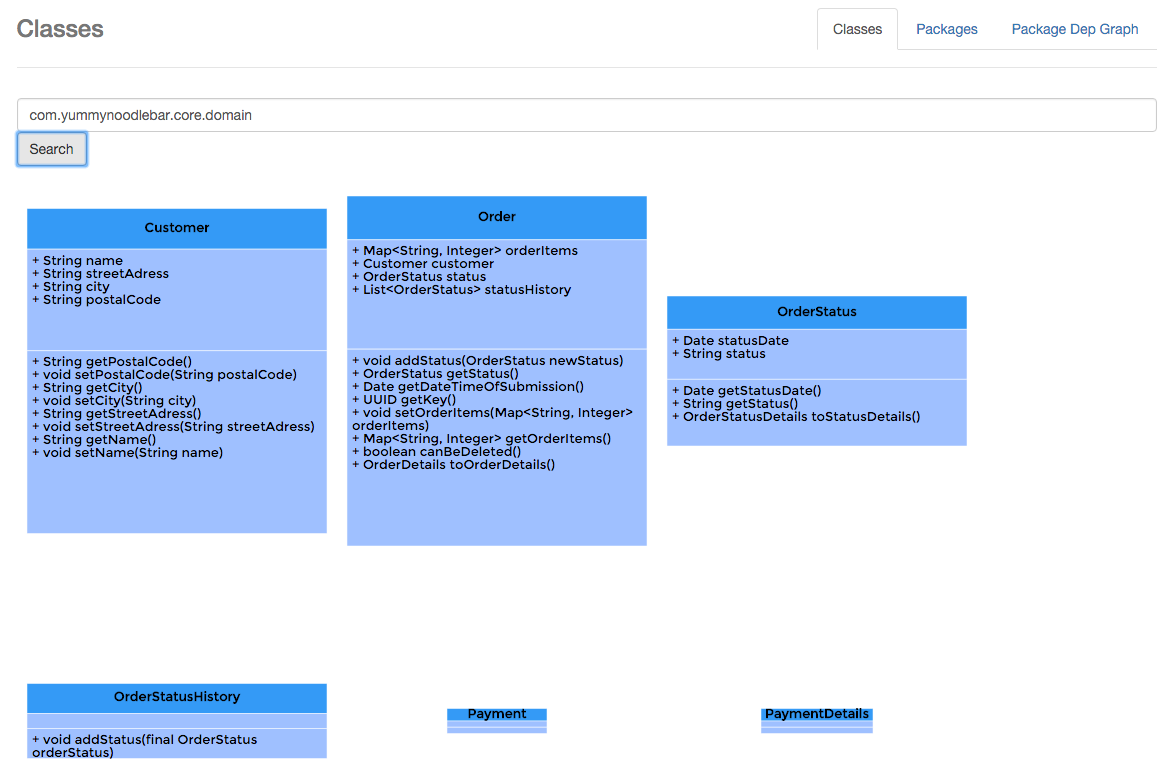
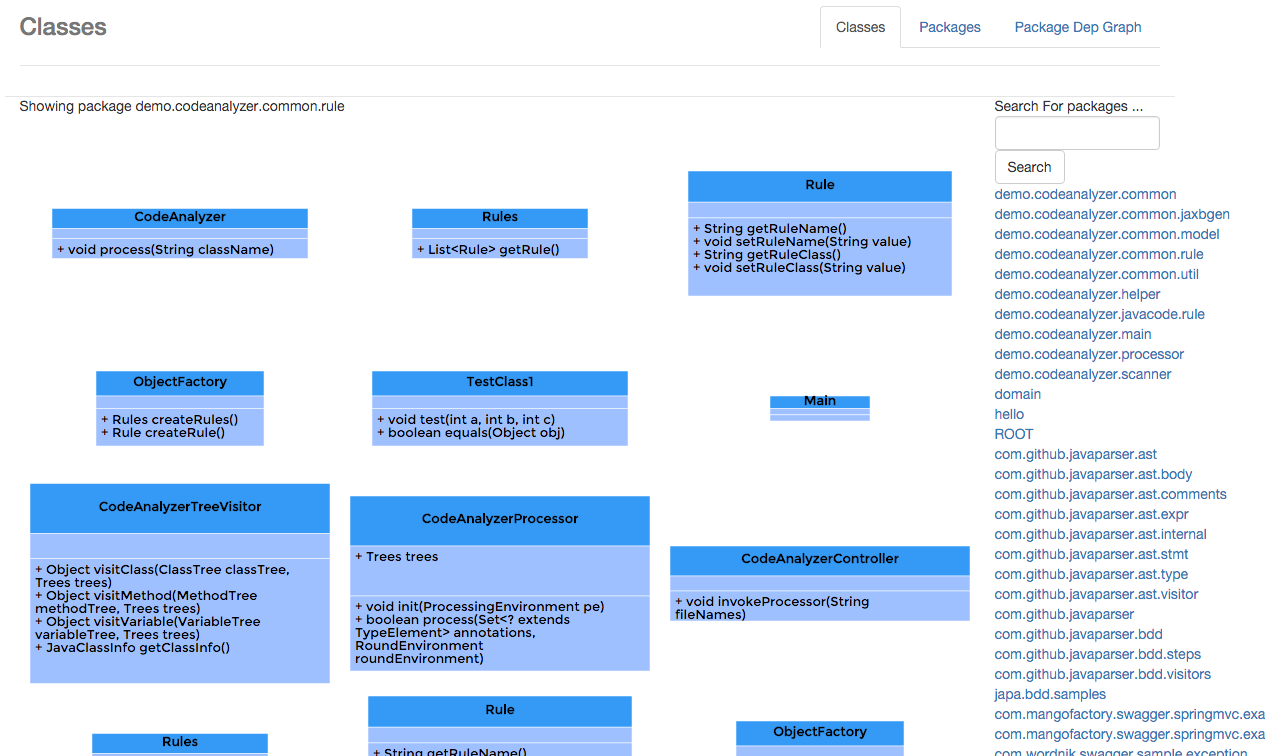
added search by package functionality to class diagram UI

diff --git a/app/scripts/classdiagrams.js b/app/scripts/classdiagrams.js
@@ -31,7 +31,8 @@ function idIndex(a,id) {
 
 function searchDatabase(searchCriteria) {
 
-    console.log("searching for: " + searchCriteria);
+    $("#showingpackage").html("Showing package " + searchCriteria);
+    //console.log("searching for: " + searchCriteria);
 
     // The query
     var query= {"statements":[{"statement":"MATCH (javaPackage:JavaPackage { name:'" + searchCriteria + "' })-[CONTAINS_CLASS]->(javaClass:JavaClass)  RETURN javaClass;",
@@ -50,18 +51,18 @@ function searchDatabase(searchCriteria) {
               
               var largestHeight = 0;
 
-              console.log(data);
+              //console.log(data);
 
               //$.each(data.classes, function(index, element) {
               $.each(data.results[0].data, function(index, element) {
 
-                    console.log(element.name);
+                    //console.log(element.name);
                     
                     element.row[0].publicMethods = transformToMultiline(element.row[0].publicMethods, 250);
-                    console.log("publicMethods=" + element.row[0].publicMethods); 
+                    //console.log("publicMethods=" + element.row[0].publicMethods); 
 
                     element.row[0].privateInstanceVariables = transformToMultiline(element.row[0].privateInstanceVariables, 250);
-                    console.log("privateInstanceVariables=" + element.row[0].privateInstanceVariables);
+                    //console.log("privateInstanceVariables=" + element.row[0].privateInstanceVariables);
 
                     var calculatedWidth = calcMaxWidthForClass(element.row[0]);
                     var calculatedHeight = calcMaxHeightForClass(element.row[0]);
@@ -155,7 +156,7 @@ function searchDatabase(searchCriteria) {
 // where the length of any one array element does not exceed the width limit
 function transformToMultiline(stringArray, widthLimit) {
 
-    console.log(stringArray);
+    //console.log(stringArray);
     if(typeof stringArray == 'undefined') {
         console.log("stringArray is undefined");
         return [];
@@ -163,7 +164,7 @@ function transformToMultiline(stringArray, widthLimit) {
 
     stringArray = stringArray.map(function(orig) {
         var transformed = "+ " + joint.util.breakText(orig, { width: widthLimit } );
-        console.log(transformed);
+        //console.log(transformed);
         return transformed;
     });
 
@@ -292,15 +293,62 @@ joint.layout.GridLayout = {
 
 paper.on('cell:pointerdblclick ',
     function(cellView, evt, x, y) {
-        console.log(cellView.model.attributes);
+        //console.log(cellView.model.attributes);
         $("#classdetails").html('Class=' + cellView.model.attributes.fullyQualifiedName);
     }
 );
 
+
+
+function searchPackages(searchCriteria) {
+
+    // The query
+    var query= {"statements":[{"statement":"MATCH (n:JavaPackage) WHERE n.name CONTAINS '" + searchCriteria + "' RETURN n",
+    "resultDataContents":["row"]}]};
+
+    // jQuery ajax call - http://stackoverflow.com/questions/29440613/return-the-graph-structure-of-a-neo4j-cypher-query-using-jquery
+    var request = $.ajax({
+        type: "POST",
+        url: "http://localhost:7474/db/data/transaction/commit",
+        accepts: { json: "application/json" },
+        dataType: "json",
+        contentType:"application/json",
+        data: JSON.stringify(query),
+        //now pass a callback to success to do something with the data
+        success: function (data) {
+                //console.log("package search results:");
+                //console.log(data);
+
+                $.each(data.results[0].data, function(index, element) {
+
+                    //console.log(element.row[0]);
+                    $("#searchresults").append("<a class='packagesearchlink'>" + element.row[0].name + "</a><br/>");
+                });
+
+                $(".packagesearchlink").click(function(event) {
+                    event.preventDefault();
+                    var text = $(event.target).text();
+                    searchDatabase(text);
+                });
+        }
+    });
+
+    request.done(function(data) {
+
+    });
+
+    request.fail(function(jqXHR, textStatus) {
+      alert( "Request failed: " + textStatus );
+    });
+}
+
 $("#packagesearchbutton").click(function() {
-    searchDatabase($("#packagesearchinput").val());
+    
+    searchPackages($("#packagesearchinput").val());
 });
 
+// initially load the page with ..
+searchPackages("");
 
 
 

diff --git a/app/index.html b/app/index.html
@@ -45,18 +45,24 @@
 
       </div>
 
-      <!--
-      <div id="jumbo" class="jumbotron">
-      -->
+      <div class="row">
+        <div class="col-md-10">
+          <div id="showingpackage"></div>
+          <div id="paper" class="paper "></div>
+          <div id="classdetails"></div>
+        </div>
+        <div class="col-md-2">
+          <div id="search">
+              Search For packages ...
+              <form class="form-horizontal">
+                <input type="text" class="form-control" id="packagesearchinput" value=""/><button type="button" id="packagesearchbutton" class="btn btn-default">Search</button>
+              </form>
+            </div>
+            <div id="searchresults">
 
-      <div id="search">
-        <form class="form-horizontal">
-          <input type="text" class="form-control" id="packagesearchinput" placeholder="Search for classes in this package ... i.e. com.yummynoodlebar.core.domain"/><button type="button" id="packagesearchbutton" class="btn btn-default">Search</button>
-        </form>
-      </div>
-
-      <div id="paper" class="paper"></div>
-      <div id="classdetails"></div>
+            </div>
+        </div>
+      </row>
 
       <div class="footer">
 

diff --git a/app/styles/main.scss b/app/styles/main.scss
@@ -70,7 +70,7 @@ body {
 /* Responsive: Portrait tablets and up */
 @media screen and (min-width: 768px) {
   .container {
-    max-width: 1200px;
+    max-width: 1400px;
   }
 
   /* Remove the padding we set earlier */

diff --git a/README.md b/README.md
@@ -1,7 +1,12 @@
 # Source-Code-Analysis-Viewer
 Browser based application to view Java source code analysis in the form of class diagrams, dependency graphs, etc. It is dependent on the existance of a neo4j graph database (which would be created via the https://github.com/mwemmie/dependency-analyzer project).
 
+The UI is very rough and sloppy at this point - I'm not an experienced JS developer so it's pretty hacky.  Getting better at JS is on the TODO list :)
+
 ![Alt text](screenshots/classdiagrams.png?raw=true "sample generated class diagrams for neo4j database")
 ![Alt text](screenshots/packagedepgraph.png?raw=true "sample package dependency graph using alchemy.js and neo4j database")
 ![Alt text](screenshots/packagelisting.png?raw=true "sample package listing using neo4j database")
+
+# TODO
+* Fix layout of class diagrams - some are overlapping
 
